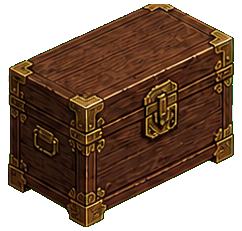
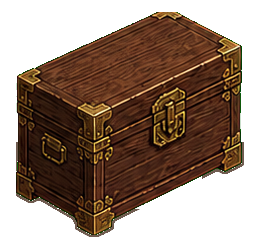
Fix rug alignment and storage silhouettes

diff --git a/tools/regenerate_home_assets_task39.py b/tools/regenerate_home_assets_task39.py
@@ -624,11 +624,67 @@ def reinforce_bed_base(im: Image.Image) -> Image.Image:
     return trim_alpha(under, 8)
 
 
+def render_aligned_rug_asset() -> Image.Image:
+    im = Image.new("RGBA", (336, 190), (0, 0, 0, 0))
+    draw = ImageDraw.Draw(im, "RGBA")
+    cx, cy = 168, 94
+    outer = [(cx, cy - 82), (cx + 164, cy), (cx, cy + 82), (cx - 164, cy)]
+    mid = [(cx, cy - 70), (cx + 140, cy), (cx, cy + 70), (cx - 140, cy)]
+    inner = [(cx, cy - 56), (cx + 112, cy), (cx, cy + 56), (cx - 112, cy)]
+    core = [(cx, cy - 34), (cx + 70, cy), (cx, cy + 34), (cx - 70, cy)]
+    def raw_poly(pts, fill, outline=None, width=1):
+        draw.polygon(pts, fill=fill)
+        if outline:
+            draw.line(pts + [pts[0]], fill=outline, width=width, joint="curve")
+    def raw_line(pts, fill, width=1):
+        draw.line(pts, fill=fill, width=width, joint="curve")
+    raw_poly(outer, (43, 82, 80, 232), (48, 31, 24, 255), 2)
+    raw_poly(mid, (52, 106, 103, 230), GOLD, 2)
+    raw_poly(inner, (35, 86, 87, 226), (222, 177, 92, 210), 1)
+    raw_poly(core, (48, 111, 111, 220), (215, 170, 88, 230), 1)
+    for off in (-48, -32, -16, 16, 32, 48):
+        raw_line([(cx - 112 + abs(off) * .35, cy + off), (cx, cy + off / 2), (cx + 112 - abs(off) * .35, cy + off)], (222, 177, 92, 95), 1)
+    for off in (-112, -84, -56, 56, 84, 112):
+        raw_line([(cx + off, cy - 56 + abs(off) * .25), (cx + off * .45, cy), (cx + off, cy + 56 - abs(off) * .25)], (27, 60, 62, 95), 1)
+    return trim_alpha(im, 4)
+
+
+def reinforce_storage_corners(im: Image.Image) -> Image.Image:
+    im = im.convert("RGBA")
+    bbox = im.getbbox()
+    if not bbox:
+        return im
+    x0, y0, x1, y1 = bbox
+    w, h = x1 - x0, y1 - y0
+    alpha = im.getchannel("A")
+    expanded = alpha.filter(ImageFilter.MaxFilter(5))
+    under = Image.new("RGBA", im.size, (0, 0, 0, 0))
+    upx = under.load()
+    apx = alpha.load()
+    epx = expanded.load()
+    wood = (63, 36, 20, 218)
+    # Restore tiny transparent bite-outs around lower corners only. This follows
+    # the existing silhouette instead of adding new posts outside the object.
+    for y in range(max(0, y0), min(im.height, y1 + 2)):
+        for x in range(max(0, x0), min(im.width, x1 + 2)):
+            lower = y > y0 + h * 0.58
+            edge_zone = x < x0 + w * 0.18 or x > x1 - w * 0.18 or y > y1 - h * 0.12
+            if lower and edge_zone and epx[x, y] and not apx[x, y]:
+                upx[x, y] = (wood[0], wood[1], wood[2], min(190, epx[x, y]))
+    under.alpha_composite(im)
+    return trim_alpha(under, 8)
+
+
 def postprocess_asset_shapes():
     for p in (ASSETS / "table").glob("table_tea*.png"):
         keep_largest_component(Image.open(p)).save(p)
     for p in (ASSETS / "bed").glob("bed_advanced*.png"):
         reinforce_bed_base(Image.open(p)).save(p)
+    rug = keep_largest_component(render_aligned_rug_asset())
+    for p in (ASSETS / "decor").glob("decor_rug_large*.png"):
+        rug.save(p)
+    for p in (ASSETS / "storage").glob("storage_*.png"):
+        reinforce_storage_corners(Image.open(p)).save(p)
 
 
 def scale_canvas(im: Image.Image, factor: float) -> Image.Image:
